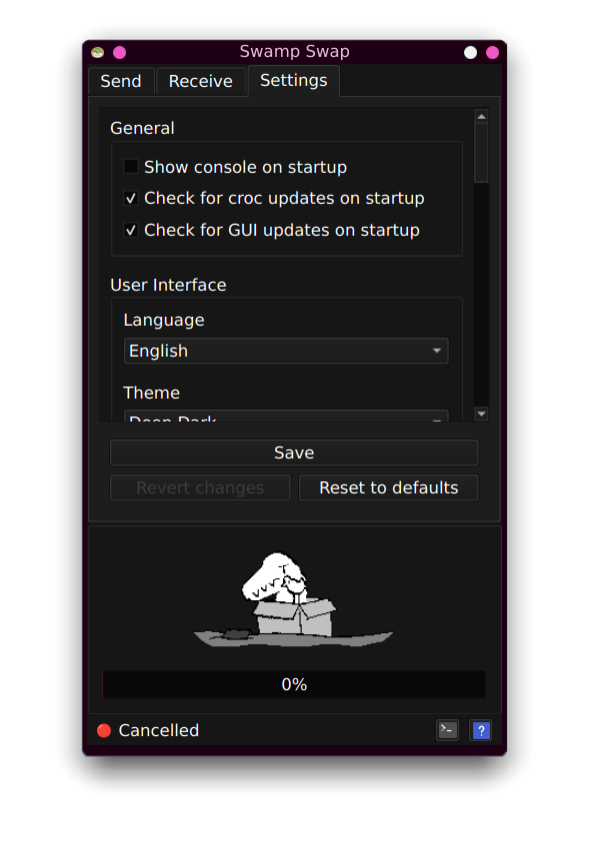
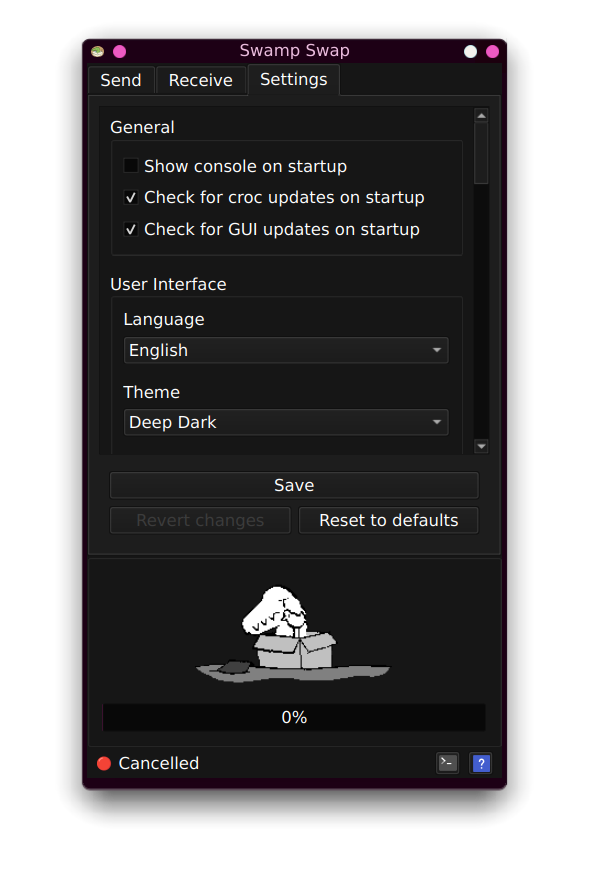
Update images and README

diff --git a/README.md b/README.md
@@ -10,9 +10,9 @@
     <img src="/assets/gif/connecting_to_peer.gif" width="250px" border="0" alt="croc and bird looking for files to receive">
 </div>
 <div align="center" float="left">
-    <img src="/images/SwampSwap_Window_Screenshot_01.png" width="250px" border="0" alt="Swamp Swap window preview with pink theme on the send tab.">
-    <img src="/images/SwampSwap_Window_Screenshot_02.png" width="250px" border="0" alt="Swamp Swap window preview with deep adark theme on the receive tab.">
-    <img src="/images/SwampSwap_Window_Screenshot_03.png" width="250px" border="0" alt="Swamp Swap window preview with dark theme on the settings tab.">
+    <img src="/images/SwampSwap_Window_Screenshot_01.png" width="250px" border="0" alt="Swamp Swap window preview with pink theme on the send tab">
+    <img src="/images/SwampSwap_Window_Screenshot_02.png" width="250px" border="0" alt="Swamp Swap window preview with deep adark theme on the receive tab">
+    <img src="/images/SwampSwap_Window_Screenshot_03.png" width="250px" border="0" alt="Swamp Swap window preview with dark theme on the settings tab">
 </div>
 
 ## Overview